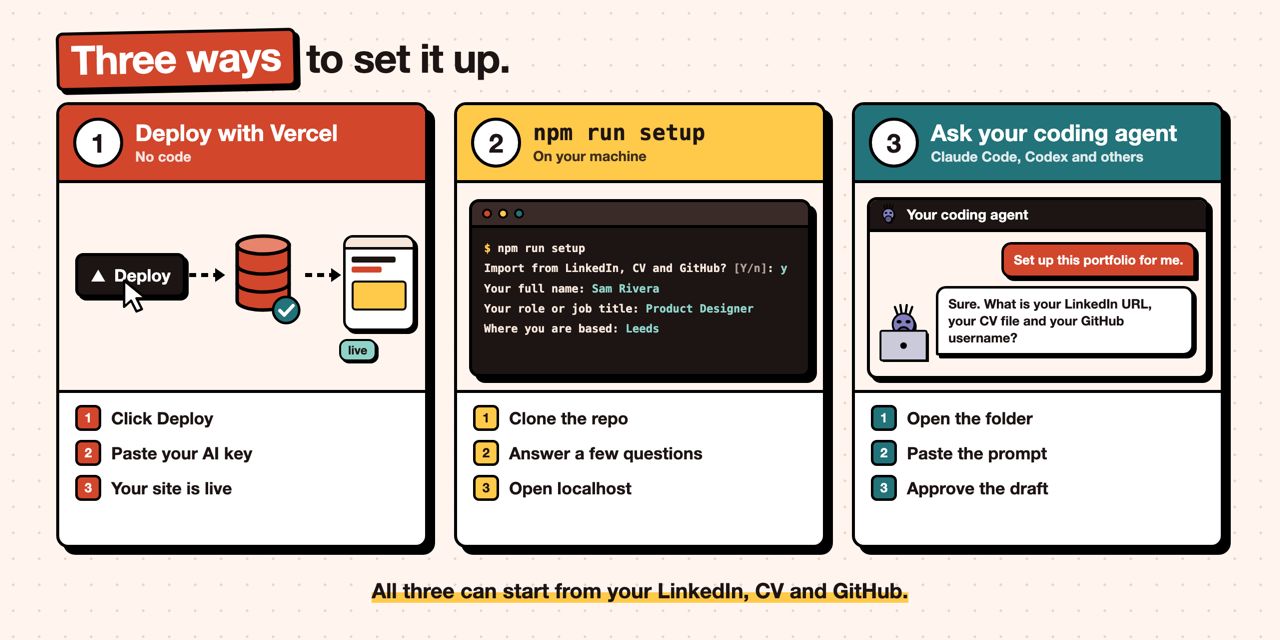
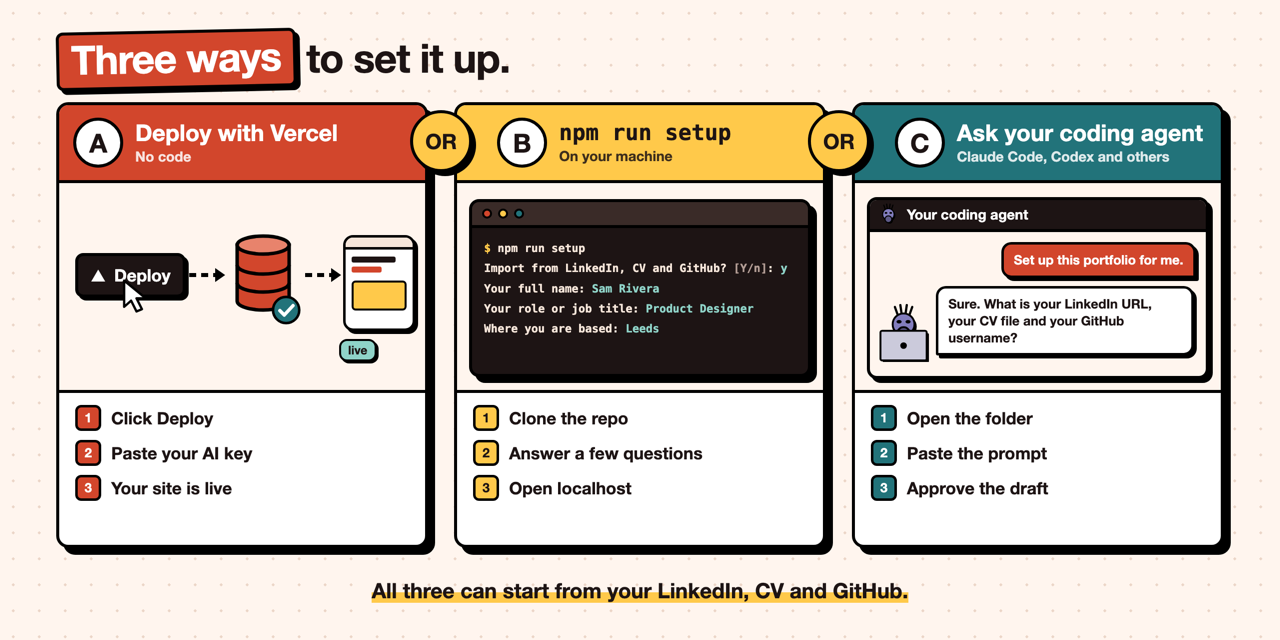
README: setup ways as A, B and C alternatives
The three ways to set it up are choices, not steps: the visual now uses
A, B and C with OR badges between them, and the README labels them the
same way with an "or" line between each. The open source still now
opens the Licence section.

Claude-Session: https://claude.ai/code/session_01JpuL1SqSvFLS5bKoLn58LL

Changed region(s): [[0.625, 0.1562, 0.9375, 0.2812], [0.3125, 0.1562, 0.5938, 0.2812], [0.0625, 0.2188, 0.0938, 0.25]]

diff --git a/README.md b/README.md
@@ -10,17 +10,19 @@
 
 ## Three ways to set it up
 
-![Three ways to set it up: 1, Deploy with Vercel with no code; 2, npm run setup on your machine; 3, ask your coding agent. All three can start from your LinkedIn, CV and GitHub](docs/images/three-ways.png)
+![Three ways to set it up, pick one: A, Deploy with Vercel with no code; B, npm run setup on your machine; C, ask your coding agent. All three can start from your LinkedIn, CV and GitHub](docs/images/three-ways.png)
 
 All three can start from your LinkedIn profile, CV and GitHub: the draft is made by your own AI provider and key (OpenAI, Claude, Gemini and others) or your own coding agent, and you review it before anything is written (see [Import from LinkedIn, CV and GitHub](#import-from-linkedin-cv-and-github)).
 
-**1. Deploy with Vercel, no code**
+**A. Deploy with Vercel, no code**
 
 [![Deploy with Vercel](https://vercel.com/button)](https://vercel.com/new/clone?repository-url=https%3A%2F%2Fgithub.com%2Fmutlumehmet%2Fai-portfolio-builder&project-name=my-portfolio&repository-name=my-portfolio&env=AI_API_KEY%2CADMIN_PASSWORD%2CSESSION_SECRET&envDescription=An%20AI%20API%20key%20%28works%20with%20OpenAI%20by%20default%3B%20for%20another%20provider%20set%20AI_BASE_URL%20and%20CHAT_MODEL%20after%20deploy%29%2C%20a%20password%20for%20%2Fadmin%2C%20and%20any%20long%20random%20string%20to%20sign%20the%20admin%20session.&envLink=https%3A%2F%2Fgithub.com%2Fmutlumehmet%2Fai-portfolio-builder%23environment-variables&stores=%5B%7B%22type%22%3A%22integration%22%2C%22protocol%22%3A%22storage%22%2C%22integrationSlug%22%3A%22neon%22%2C%22productSlug%22%3A%22neon%22%7D%5D)
 
 Copies the repo to your GitHub, creates a free Neon database, asks for three values and deploys; the first build sets up the tables, sample content and search index. Then open `/admin/import` on your new site to draft your content from LinkedIn, a CV and GitHub. Details in [Deploy in one click](#deploy-in-one-click).
 
-**2. One command on your machine**
+<p align="center"><b>or</b></p>
+
+**B. One command on your machine**
 
 ```bash
 git clone https://github.com/mutlumehmet/ai-portfolio-builder.git my-portfolio
@@ -29,7 +31,9 @@ cd my-portfolio && npm install && npm run setup
 
 Offers to import from your LinkedIn, CV and GitHub first, then asks for your name, links, colour theme, database and AI provider (OpenAI, Anthropic, Gemini, OpenRouter, Ollama or another OpenAI-compatible one), writes your config and `.env`, sets up the database and starts the site at http://localhost:3000.
 
-**3. Ask your coding agent**
+<p align="center"><b>or</b></p>
+
+**C. Ask your coding agent**
 
 Open the cloned folder in Claude Code, Codex or another coding agent and paste:
 
@@ -419,6 +423,10 @@ docker-compose.yml    local Postgres with pgvector
 * Built on Next.js, React, Prisma, pgvector, Tailwind CSS, OpenAI, mcp-handler, unpdf and mammoth.
 
 ## Licence
+
+Free and open source.
+
+![Free and open source: the mutlumehmet/ai-portfolio-builder repository with an MIT licence and a Use this template button, the clone and setup commands, and the stack: Next.js, Prisma, Postgres with pgvector and Tailwind CSS](docs/images/open-source.png)
 
 Code: [MIT](LICENSE). Sample content (everything in `content/`, the sample CV, avatar and project images in `public/`) is released under [CC0](https://creativecommons.org/publicdomain/zero/1.0/): use it freely while you test. The sample persona and every company and project in it are fictional; any resemblance to real people or businesses is a coincidence.
 
